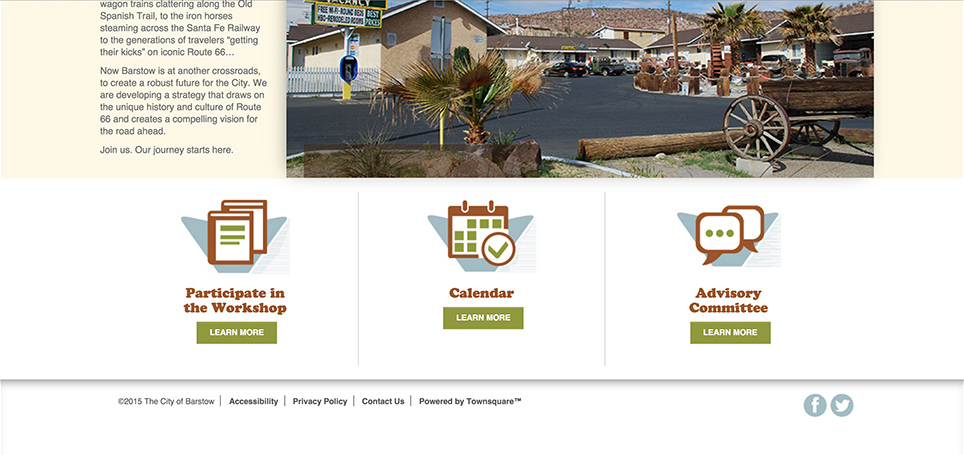
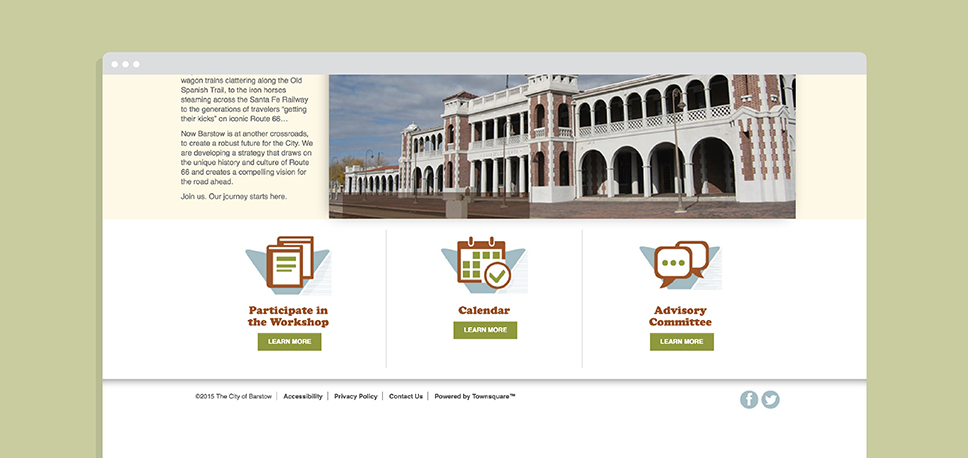
update styling

diff --git a/Clipper.html b/Clipper.html
@@ -75,15 +75,15 @@
     <div class="container section about" id="detail" style="max-width:968px">
       <div class="row" id="detail-text">
         <div class="col-md-12">
-          <h2><span class="blue-text">Work Experience:</span> MIG, Inc.</h2>
-          <h2><span class="blue-text">Client:</span> Clipper Card, Metropolitan Transportation Commission</h2>
-          <h2><span class="blue-text">Challenge</span></h2>
+          <h2><span class="blue-text">Project:</span> East Bay Campaign </h2>
+         <h2><span class="blue-text">Client:</span> Clipper Card, Metropolitan Transportation Commission</h2>
           <p>
-            When Clipper expanded to four new agencies in the East Bay, I led the creative on a targeted campaign to promote adoption in the region.
+            When Clipper, the Bay Area's transit card, expanded to four new agencies in the East Bay, I led the creative on a targeted campaign to promote adoption in the region.
           </p>
           <p>
-            After analyzing transit usage in the area (through data collected by the transit agencies), we identified two distinct audiences: commuters traveling to BART (Bay Area Rapid Transit), and local, transit dependant riders primarily of Hispanic heritage. This led to the development of a bilingual campaign that reached riders on a personal level by highlighting riders' specific destinations, and the connections they make on their journey.
-          </p></div></div>
+            After analyzing transit usage in the area (through data collected by the transit agencies), we identified two distinct audiences: commuters traveling to BART (Bay Area Rapid Transit), and local, transit dependent riders primarily of Hispanic heritage. This led to the development of a bilingual campaign that reached riders on a personal level by highlighting riders' specific destinations, and the connections they make on their journey.
+          </p>
+        </div></div>
       <div class="row" id="detail-text2">
         <div class="col-sm-12 col-md-6 col-lg-6">          
           <a href="./images/portfolio/Clipper/EB9.jpg" data-lightbox="EB-1" data-title="Research and Inspiration for Campaign">
@@ -100,6 +100,7 @@
           <p>
             Through our research, we identified six trips that these two audiences might take, and depicted them using large focused imagery juxtaposed with thoughtful, pared down headlines, on blocks of color. By having six different pieces, we were able to show the vast possibilities of using a Clipper card, and how riders can seamlessly connect to other agencies.
           </p>
+          <p style = "font-size: 19px; font-weight:400;"><i>Work completed at MIG, Inc.</i></p>
         </div>
       </div>
       <!--

diff --git a/D12.html b/D12.html
@@ -43,20 +43,17 @@
     </nav>
     <div id="carousel-example-generic" class="carousel slide" data-ride="carousel">
       <div class="carousel-inner" role="listbox">
-        <div class="item active">
-          <img src="images/portfolio/D12/d12.jpg" alt="Caltrans District 12 Managed Lanes Study">
-        </div>
         <div class="item">
           <img src="images/portfolio/D12/d12_4.jpg" alt="Caltrans District 12 Managed Lanes Study">
         </div>
-        <div class="item">
+        <div class="item active">
           <img src="images/portfolio/D12/d12_2.jpg" alt="Caltrans District 12 Managed Lanes Study">
         </div>
         <div class="item">
           <img src="images/portfolio/D12/d12_3.jpg" alt="Caltrans District 12 Managed Lanes Study">
         </div>
         <div class="item">
-          <img src="images/portfolio/D12/d12_10.jpg" alt="Caltrans District 12 Managed Lanes Study">
+          <img src="images/portfolio/D12/d12_9.jpg" alt="Caltrans District 12 Managed Lanes Study">
         </div>
         <div class="pattern"></div>
       </div>
@@ -72,9 +69,8 @@
     <div class="container section about" id="detail" style="max-width:968px">
       <div class="row" id="detail-text">
         <div class="col-md-12">
-          <h2><span class="blue-text">Work Experience:</span> MIG, Inc.</h2>
+          <h2><span class="blue-text">Project:</span> District 12 Website</h2>
           <h2><span class="blue-text">Client:</span> Caltrans</h2>
-          <h2><span class="blue-text">Challenge</span></h2>
          <p>
             Caltrans, the California Department of Transportation, was interested in building a site for District 12 in Orange County to educate the public on a study taking place to manage traffic and keep freeways moving.
           </p>
@@ -97,6 +93,8 @@
           <p> To further inform and educate users on what Caltrans is researching, two prominent buttons for a resource and video libary are at the top of the page.</p>
 
           <p>In addition to leading the visual design for this site, I participated in the entire process from sketches to building code. To further support community education and outreach for the Caltrans brand, I developed a fact sheet for events, and proposed updated logo designs.</p>
+          <p style = "font-size: 19px; font-weight:400;"><i>Work completed at MIG, Inc.</i></p>
+
         </div>
       </div>
     </div>

diff --git a/LastChance.html b/LastChance.html
@@ -43,7 +43,7 @@
     </nav>
     <div id="carousel-example-generic" class="carousel slide" data-ride="carousel">
       <div class="carousel-inner" role="listbox">
-        <div class="item">
+        <div class="item active">
           <img src="images/portfolio/LastChance/lastchance2.jpg" alt="Caltrans Last Chance Grade">
         </div>
         <div class="item">
@@ -54,9 +54,6 @@
         </div>
         <div class="item">
           <img src="images/portfolio/LastChance/lastchance4.jpg" alt="Caltrans Last Chance Grade">
-        </div>
-        <div class="item active">
-          <img src="images/portfolio/LastChance/lastchance7.jpg" alt="Caltrans Last Chance Grade">
         </div>
         <div class="item">
           <img src="images/portfolio/LastChance/lastchance6.jpg" alt="Caltrans Last Chance Grade">
@@ -76,9 +73,8 @@
     <div class="container section about" id="detail" style="max-width:968px">
       <div class="row" id="detail-text">
         <div class="col-md-12">
-          <h2><span class="blue-text">Work Experience:</span> MIG, Inc.</h2>
+          <h2><span class="blue-text">Project:</span> District Website</h2>
           <h2><span class="blue-text">Client:</span> Caltrans</h2>
-          <h2><span class="blue-text">Challenge</span></h2>
           <p>
             Caltrans, the California Department of Transportation, was interested in building a website to explain their strategy, and eventual solution for instability and roadway failure on a 4-mile segment of US Highway 101 in Del Norte County. </p>
 
@@ -98,7 +94,11 @@
           </a>       
          </div>
         <div class="col-sm-12 col-md-6 col-lg-6">              
-         </div></div>
+         </div>
+
+       </div>
+                 <p style = "font-size: 19px; font-weight:400;"><i>Work completed at MIG, Inc.</i></p>
+
       <!--<div id="template-thumbnail-container">
         <div class="template-thumbnail">
           <a href="./images/portfolio/LastChance/lastchance1.jpg" data-lightbox="Barstow-1" data-title="Sketches for Last Chance Grade Site">

diff --git a/Barstow.html b/Barstow.html
@@ -43,7 +43,7 @@
     </nav>
     <div id="carousel-example-generic" class="carousel slide" data-ride="carousel">
       <div class="carousel-inner" role="listbox">
-        <div class="item">
+        <div class="item active">
           <img src="images/portfolio/Barstow/Barstow1.jpg" alt="Barstow Downtown Specific Plan">
         </div>
         <div class="item">
@@ -54,9 +54,6 @@
         </div>
         <div class="item">
           <img src="images/portfolio/Barstow/Barstow4.jpg" alt="Barstow Downtown Specific Plan">
-        </div>
-        <div class="item active">
-          <img src="images/portfolio/Barstow/Barstow8.jpg" alt="Barstow Downtown Specific Plan">
         </div>
         <div class="item">
           <img src="images/portfolio/Barstow/Barstow7.jpg" alt="Barstow Downtown Specific Plan">
@@ -75,9 +72,8 @@
     <div class="container section about" id="detail" style="max-width:968px">
       <div class="row" id="detail-text">
         <div class="col-md-12">
-          <h2><span class="blue-text">Work Experience:</span> MIG, Inc.</h2>
+          <h2><span class="blue-text">Project:</span> City Website</h2>
           <h2><span class="blue-text">Client:</span> City of Barstow</h2>
-          <h2><span class="blue-text">Challenge</span></h2>
           <p>
             Once a crossroad for trade and travel, and a destination stop along historic Route 66, the City of Barstow is strategizing how to reinvigorate its downtown. The City wanted to develop a website that would educate, and be a resource for the community as they begin redeveloping the city.
           </p>
@@ -100,7 +96,10 @@
           </p>
 
           <a class="template-detail-link" href="http://www.downtownbarstowplan.org" target="_blank">Downtown Barstow Specific Plan Website</a>
+           <p style = "font-size: 19px; font-weight:400;"><i>Work completed at MIG, Inc.</i></p>
+
         </div>
+
       </div>
       <!--<div id="template-thumbnail-container">
         <div class="template-thumbnail">

diff --git a/Hayward.html b/Hayward.html
@@ -69,9 +69,8 @@
     <div class="container section about" id="detail" style="max-width:968px">
       <div class="row" id="detail-text">
         <div class="col-md-12">
-          <h2><span class="blue-text">Work Experience:</span> MIG, Inc.</h2>
+          <h2><span class="blue-text">Project:</span> Facility Brochure</h2>
           <h2><span class="blue-text">Client:</span> Hayward Water Pollution Control Facility</h2>
-          <h2><span class="blue-text">Challenge</span></h2>
           <p>
             The above brochure was developed to educate Hayward residents on the water treatment process, and introduce them to the new treatment facility.
           </p>  
@@ -81,6 +80,7 @@
           <p>
             Specifically, we wanted to touch on the textures and shapes of the facility itself. The interwining tubes, the complexity of the digester, as well as the geometrical design of the solar panels are reflected in the dotted background pattern, the circular imagery, and the way the call-outs and highlighted text are treated. The slanted headlines are both playful and welcoming, as well as reference the angles and intersection of the different forms in the machine.
           </p>
+
         </div>
       </div>
               <div class="row" id="detail-text2">
@@ -92,8 +92,12 @@
         <div class="col-sm-12 col-md-6 col-lg-6">          
           <a href="./images/portfolio/Hayward/Hayward7.jpg" data-lightbox="Hayward-2" data-title="Alternate Layout">
             <img src="./images/portfolio/Hayward/Hayward7.jpg">
-          </a>       
-         </div></div>
+          </a>  
+
+         </div>
+          <p style = "font-size: 19px; font-weight:400;"><i>Work completed at MIG, Inc.</i></p>
+
+       </div>
       <!--<div id="template-thumbnail-container">
         <div class="template-thumbnail">
           <a href="./images/portfolio/Hayward/Hayward5.jpg" data-lightbox="Hayward-1" data-title="Alternate Layout Design for Brochure">

diff --git a/GA.html b/GA.html
@@ -75,14 +75,13 @@
     <div class="container section about" id="detail" style="max-width:968px">
       <div class="row" id="detail-text">
         <div class="col-md-12">
-          <h2><span class="blue-text">Work Experience:</span> KneeFix (General Assembly)</h2>
-          <h2><span class="blue-text">Challenge</span></h2>
+          <h2><span class="blue-text">Project:</span> KneeFix (General Assembly)</h2>
           <p>
             As part of a 10-week intensive course focused on user-centered design, I developed KneeFix, an app concept to help users manage their knee injuries, and incorporate the recovery process into their day-to-day lives.
           </p>
           <p>Originally when developing a problem/solution statement, I set out to develop a health reminder app for people with temporary injuries or health conditions. Through research and testing, I refined this concept to better suit a specific user, people with knee injuries.</p>
           
-          <p>In performing observations (12 people in 3 locations), interviews (5), and an online survey (32 responses) I identified 5 key concerns for my users. These findings informed how and when my users use reminders, both digital and by hand, how they feel about pain, when and how they excercise, and how and by whom they search for health information. Based on this research, two personas were developed. 
+          <p>In performing observations (12 people in 3 locations), interviews (5), and an online survey (32 responses) I identified five key concerns for my users. These findings informed how and when my users use reminders, both digital and by hand, how they feel about pain, when and how they excercise, and how they search for health information. Based on this research, two personas were developed. 
           </p></div></div>
        <div class="row" id="detail-text2">
         <div class="col-sm-12 col-md-6 col-lg-6">          

diff --git a/MCE.html b/MCE.html
@@ -69,15 +69,16 @@
     <div class="container section about" id="detail" style="max-width:968px">
       <div class="row" id="detail-text">
         <div class="col-md-12">
-          <h2><span class="blue-text">Work Experience:</span> MIG, Inc.</h2>
+          <h2><span class="blue-text">Work Experience:</span> Digital Ads</h2>
           <h2><span class="blue-text">Client:</span> Marin Clean Energy</h2>
-          <h2><span class="blue-text">Challenge</span></h2>
           <p>
             The above digital ads were developed as a social marketing campaign to initiate a behavior change in Marin County residents, to save more energy. When clicked, the ads led users to Marin Clean Energy's "My Energy" tool to help them calculate their energy costs and needs.
           </p>
           <p>
             Working with a writer, we developed a series of four animated ads featured on local news websites, and a facebook graphic. The animations, each three frames long, reached viewers on a personal level through the use of simple icons and imagery, bright colors, and succinct text. Two of four digital ad sequences, and the facebook graphic are shown above.
           </p>
+          <p style = "font-size: 19px; font-weight:400;"><i>Work completed at MIG, Inc.</i></p>
+
         </div>
       </div><!--
       <div id="template-thumbnail-container">

diff --git a/SNS.html b/SNS.html
@@ -69,14 +69,15 @@
     <div class="container section about" id="detail" style="max-width:968px">
       <div class="row" id="detail-text">
         <div class="col-md-12">
-          <h2><span class="blue-text">Work Experience:</span> MIG, Inc.</h2>
+          <h2><span class="blue-text">Project:</span> Outreach Pamphlet</h2>
           <h2><span class="blue-text">Client:</span> City of Henderson (Southern Nevada Strong)</h2>
-          <h2><span class="blue-text">Challenge</span></h2>
           <p>
             The above pamphlet was developed to inform the Southern Nevada community of who Southern Nevada Strong is and how people can become involved in redevelopment and planning efforts in the region. The pamphlet was used along with community meetings and outreach efforts, led by MIG, to educate the community.</p>
 
             <p>With the help of the City of Henderson's planners, in the center of the pamphlet I researched and designed a map of the region that shows the area's different districts. The design of the pamplet takes cues from the organization's branding, which was previously developed.</p>
           </p>
+            <p style = "font-size: 19px; font-weight:400;"><i>Work completed at MIG, Inc.</i></p>
+
         </div>
       </div>
     </div>

diff --git a/StevensCreek.html b/StevensCreek.html
@@ -63,9 +63,8 @@
     <div class="container section about" id="detail" style="max-width:968px">
       <div class="row" id="detail-text">
         <div class="col-md-12">
-          <h2><span class="blue-text">Work Experience:</span> MIG, Inc.</h2>
+          <h2><span class="blue-text">Project:</span> Project Logo</h2>
           <h2><span class="blue-text">Client:</span> City of Cupertino</h2>
-          <h2><span class="blue-text">Challenge</span></h2>
           <p>
             MIG's planning and development department worked with the City of Cupertino to help develop a Master Plan for the Stevens Creek Corridor. In an effort to brand the project and create a cohesive set of materials, the above project logo was developed.
           </p>
@@ -87,6 +86,8 @@
             <img src="./images/portfolio/StevensCreek/SC4_thumb.jpg">
           </a>
         </div>
+        <p style = "font-size: 19px; font-weight:400;"><i>Work completed at MIG, Inc.</i></p>
+
       </div>
     </div>
     <div class="pattern"></div>

diff --git a/Fairfield.html b/Fairfield.html
@@ -63,10 +63,10 @@
     <div class="container section about" id="detail" style="max-width:968px">
       <div class="row" id="detail-text">
         <div class="col-md-12">
-          <h2><span class="blue-text">Work Experience:</span> MIG, Inc.</h2>
+          <h2><span class="blue-text">Project:</span> Project Logo</h2>
           <h2><span class="blue-text">Client:</span> City of Fairfield</h2>
-          <h2><span class="blue-text">Challenge</span></h2>
           <p>MIG's planning and development department worked with the City of Fairfield to help develop a Specific Plan for Downtown Fairfield. In an effort to brand the project and create a cohesive set of materials, the above project logo was developed.</p>
+          <p style = "font-size: 19px; font-weight:400;"><i>Work completed at MIG, Inc.</i></p>
 
         </div>
       </div>

diff --git a/Autism.html b/Autism.html
@@ -69,8 +69,7 @@
     <div class="container section about" id="detail" style="max-width:968px">
         <div class="row" id="detail-text">
           <div class="col-md-12">
-            <h2><span class="blue-text">Work Experience:</span> Autism in the Classroom: A Preschool Teacher's Guide</h2>
-            <h2><span class="blue-text">Challenge</span></h2>
+            <h2><span class="blue-text">Project:</span> Autism in the Classroom: A Preschool Teacher's Guide</h2>
             <p>
               The above book was researched and designed as a project while I attended Washington University in St. Louis. Through my research, I discovered a lack of accessible books for teachers, on educating students with Austism in classrooms that contained both students with and without Autism.
             </p>

diff --git a/Sparky.html b/Sparky.html
@@ -72,8 +72,7 @@
     <div class="container section about" id="detail" style="max-width:968px">
       <div class="row" id="detail-text">
         <div class="col-md-12">
-          <h2><span class="blue-text">Work Experience:</span> Sparky: The Life and Times of Charles M. Schulz</h2>
-          <h2><span class="blue-text">Challenge</span></h2>
+          <h2><span class="blue-text">Project:</span> Sparky: The Life and Times of Charles M. Schulz</h2>
           <p>
             The above book lays out a visual biography of Charles M. Schulz, the creater of the "Peanuts" comics. I researched and designed the book, displaying his comics at large scale next to his life's story, making correlations between the themes in his comics and Schulz's own life.
           </p>
